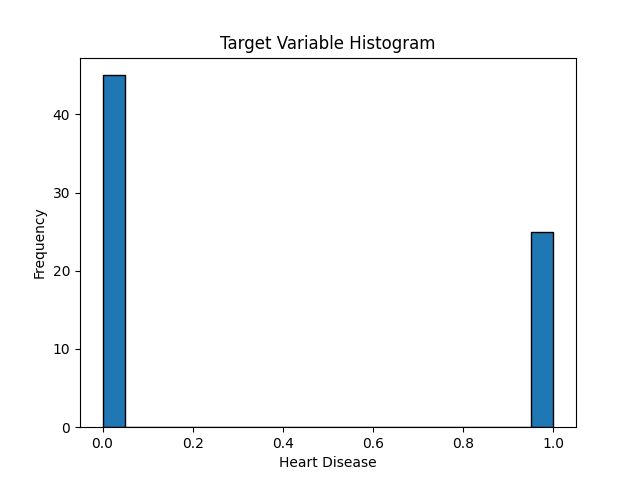
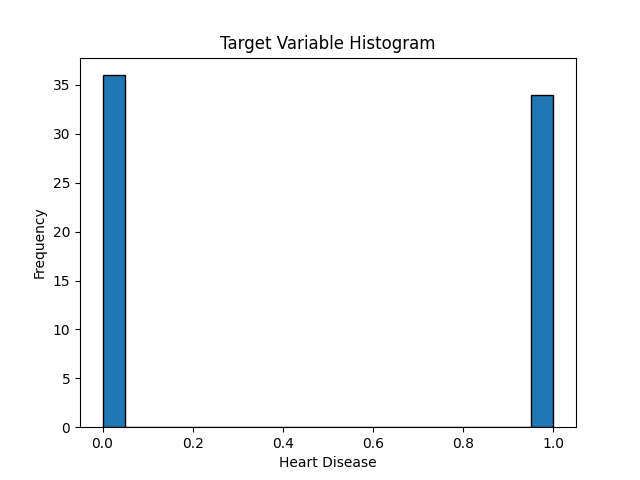
hw1 q2b

diff --git a/homework1/solutions.py b/homework1/solutions.py
@@ -3,14 +3,20 @@ import numpy as np
 import matplotlib.pyplot as plt
 from sklearn.model_selection import train_test_split
 from sklearn.linear_model import LogisticRegression
-from sklearn.metrics import log_loss
+from sklearn.metrics import log_loss, accuracy_score
 
-# pd.set_option('future.no_silent_downcasting', True)
+pd.set_option('future.no_silent_downcasting', True)
 
 df = pd.read_csv("heart.csv")
 
-# A:
+###################################################################################################
+#
+#   QUESTION 1: Data Wrangling
+#
+###################################################################################################
 y = df['Heart_Disease']
+
+# Part (A): 
 X = df.drop(columns=['Heart_Disease', 'Last_Checkup'])
 
 # B:
@@ -33,7 +39,7 @@ def impute_age(row):
     if pd.isnull(row['Age']):
         return medians[row['Gender']]
     return row['Age']
-
+X_train['Age'] = X_train.apply(impute_age, axis=1)
 X_test['Age'] = X_test.apply(impute_age, axis=1)
 
 # G: 
@@ -52,11 +58,11 @@ plt.xlabel('Heart Disease')
 plt.ylabel('Frequency')
 plt.title('Target Variable Histogram')
 plt.savefig('hist.png')
-k = 0.1
-y_train_cleaned = (y_train > k).astype(int)
-y_test_cleaned = (y_train > k).astype(int)
+k = 0.05
+y_train_qnt = (y_train > k).astype(int)
+y_test_qnt = (y_test > k).astype(int)
 plt.clf()
-plt.hist(y_train_cleaned, bins=20, edgecolor='black')
+plt.hist(y_train_qnt, bins=20, edgecolor='black')
 plt.xlabel('Heart Disease')
 plt.ylabel('Frequency')
 plt.title('Target Variable Histogram')
@@ -66,16 +72,88 @@ X_train.to_csv('X_train_cleaned.csv', index=False)
 X_test.to_csv('X_test_cleaned.csv', index=False)
 y_train.to_csv('y_train.csv', index=False)
 y_test.to_csv('y_test.csv', index=False)
-y_train_cleaned.to_csv('y_train_cleaned.csv', index=False)
+y_train_qnt.to_csv('y_train_cleaned.csv', index=False)
 
 # QUESTION TWO:
+# B:
 vals = np.logspace(-4, 4, 100)
-loss_data = []
+train_losses = []
+test_losses = []
 for val in vals:
-    m = LogisticRegression(C=val, solver='lbfgs').fit(X_train, y_train_cleaned)
-    y_pred_train = m.predict_proba(X_train)
-    y_pred_test = m.predict_proba(X_test)
-    loss_data.append([val, log_loss(y_train_cleaned, y_pred_train), log_loss(y_test_cleaned, y_pred_test)])
-cols = ['C value', 'train log loss', 'test log loss']
-loss_df = pd.DataFrame(loss_data, columns=cols)
-loss_df
+    m = LogisticRegression(C=val, penalty='l2', solver='lbfgs')
+    m.fit(X_train, y_train_qnt) 
+    y_train_prob = m.predict_proba(X_train)
+    y_test_prob = m.predict_proba(X_test)
+    train_losses.append(log_loss(y_train_qnt, y_train_prob))
+    test_losses.append(log_loss(y_test_qnt, y_test_prob))
+
+    y_train_pred = m.predict(X_train)
+    y_test_pred = m.predict(X_test)
+
+    train_accuracy = accuracy_score(y_train_qnt, y_train_pred)
+    test_accuracy = accuracy_score(y_test_qnt, y_test_pred)
+
+    print(f'Train Accuracy: {train_accuracy:.4f}')
+    print(f'Test Accuracy: {test_accuracy:.4f}')
+plt.figure(figsize=(8, 6))
+plt.plot(vals, train_losses, label='Train log loss', marker='o')
+plt.plot(vals, test_losses, label='Test log loss', marker='s')
+plt.xscale('log')
+plt.xlabel('C')
+plt.ylabel('Log loss')
+plt.title('Log loss vs C')
+plt.legend()
+plt.grid()
+plt.savefig('graph.png')
+
+# C:
+# (j) Perform 5-fold cross-validation for different C values
+C_values = np.logspace(-4, 4, 100)
+cv_results = []
+
+N = len(X_train)
+fold_size = N // 5
+
+for C in C_values:
+    fold_losses = []
+    
+    for i in range(5):
+        start, end = i * fold_size, (i + 1) * fold_size
+        X_val, y_val = X_train.iloc[start:end], y_train_qnt.iloc[start:end]
+        X_train_fold = pd.concat([X_train.iloc[:start], X_train.iloc[end:]])
+        y_train_fold = pd.concat([y_train_qnt.iloc[:start], y_train_qnt.iloc[end:]])
+        
+        model = LogisticRegression(C=C, penalty='l2', solver='lbfgs', max_iter=1000)
+        model.fit(X_train_fold, y_train_fold)
+        y_val_prob = model.predict_proba(X_val)[:, 1]
+        fold_losses.append(log_loss(y_val, y_val_prob))
+    
+    cv_results.append(fold_losses)
+
+# (k) Plot boxplot of log-loss for different C values
+plt.figure(figsize=(10, 6))
+plt.boxplot(cv_results, positions=np.log10(C_values))
+plt.xlabel('log10(C)')
+plt.ylabel('Log-Loss')
+plt.title('5-Fold Cross-Validation Log-Loss for Different C Values')
+plt.grid()
+plt.savefig('graph2')
+
+# (l) Select best C based on median log-loss
+median_losses = [np.median(losses) for losses in cv_results]
+best_C = C_values[np.argmin(median_losses)]
+print(f'Best C: {best_C}')
+
+# (m) Train final model with best C
+final_model = LogisticRegression(C=best_C, penalty='l2', solver='lbfgs')
+final_model.fit(X_train, y_train_qnt)
+
+y_train_pred = final_model.predict(X_train)
+y_test_pred = final_model.predict(X_test)
+
+train_accuracy = accuracy_score(y_train_qnt, y_train_pred)
+test_accuracy = accuracy_score(y_test_qnt, y_test_pred)
+
+print(f'Train Accuracy: {train_accuracy:.4f}')
+print(f'Test Accuracy: {test_accuracy:.4f}')
+
